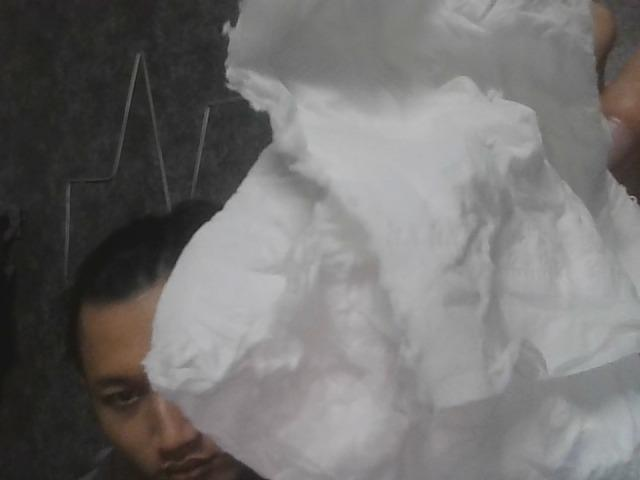
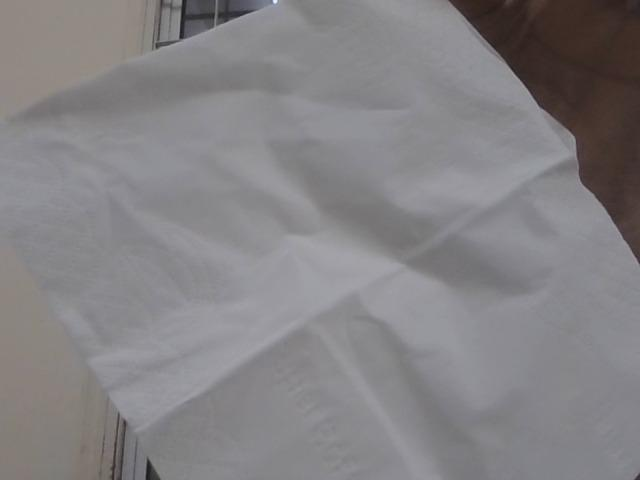
Final

diff --git a/test.py b/test.py
@@ -1,0 +1,100 @@
+import os
+import urllib.request
+from diagrams import Diagram, Cluster, Edge
+from diagrams.custom import Custom
+
+# --- 1. CẤU HÌNH USER-AGENT (Để tải icon không bị lỗi) ---
+opener = urllib.request.build_opener()
+opener.addheaders = [('User-Agent', 'Mozilla/5.0 (Windows NT 10.0; Win64; x64) AppleWebKit/537.36 (KHTML, like Gecko) Chrome/91.0.4472.124 Safari/537.36')]
+urllib.request.install_opener(opener)
+
+# --- 2. LINK ICON MINH HỌA ---
+# Sử dụng các icon hình học đơn giản để đại diện cho các khối lớp
+icons_url = {
+    "input": "https://cdn-icons-png.flaticon.com/512/3342/3342137.png", # Ảnh đầu vào
+    "conv": "https://cdn-icons-png.flaticon.com/512/8637/8637179.png", # Lớp Conv (Hình bánh răng/xử lý)
+    "depthwise": "https://cdn-icons-png.flaticon.com/512/17651/17651543.png", # Lớp Depthwise (Xử lý chi tiết)
+    "add": "https://cdn-icons-png.flaticon.com/512/3524/3524388.png", # Phép cộng (Residual)
+    "pool": "https://cdn-icons-png.flaticon.com/512/2085/2085217.png", # Pooling
+    "softmax": "https://cdn-icons-png.flaticon.com/512/4301/4301546.png" # Output Classification
+}
+
+# --- 3. HÀM TẢI ICON ---
+def get_icon(name, url):
+    filename = f"icon_{name}.png"
+    # Xóa file lỗi cũ nếu có
+    if os.path.exists(filename) and os.path.getsize(filename) < 1000:
+        try: os.remove(filename)
+        except: pass
+        
+    if not os.path.exists(filename):
+        try:
+            print(f"Đang tải icon: {name}...")
+            urllib.request.urlretrieve(url, filename)
+        except Exception as e:
+            print(f"Lỗi tải {name}: {e}")
+            return "icon_conv.png" # Fallback
+    return filename
+
+# --- 4. VẼ BIỂU ĐỒ ---
+graph_attr = {
+    "fontsize": "22",
+    "bgcolor": "#FFFFFF",
+    "splines": "ortho", # Đường nối vuông góc cho giống sơ đồ kỹ thuật
+    "pad": "0.5"
+}
+
+print("Đang tạo sơ đồ MobileNetV2...")
+
+# Tải tài nguyên
+paths = {}
+for key, url in icons_url.items():
+    paths[key] = get_icon(key, url)
+
+with Diagram("Kiến trúc MobileNetV2: Inverted Residual Block", 
+             show=True, 
+             filename="mobilenet_structure", 
+             outformat="png", 
+             graph_attr=graph_attr, 
+             direction="LR"): # Vẽ từ Trái sang Phải (Left to Right)
+
+    # 1. Input
+    input_img = Custom("Input Image\n(224x224x3)", paths["input"])
+
+    # 2. Stem (Lớp đầu tiên)
+    stem = Custom("Conv2D\n(32 filters)", paths["conv"])
+
+    # 3. THE CORE: INVERTED RESIDUAL BLOCK
+    # Đây là phần quan trọng nhất của MobileNetV2
+    with Cluster("Inverted Residual Block (Linear Bottleneck)", graph_attr={"bgcolor": "#E3F2FD", "style": "rounded"}):
+        
+        # Bước 1: Expansion (Mở rộng kênh)
+        expand = Custom("1x1 Conv\n(Expansion)", paths["conv"])
+        
+        # Bước 2: Depthwise Conv (Xử lý nhẹ)
+        depthwise = Custom("3x3 Depthwise\n(Lightweight)", paths["depthwise"])
+        
+        # Bước 3: Projection (Nén lại)
+        project = Custom("1x1 Conv\n(Projection)", paths["conv"])
+        
+        # Luồng đi thẳng
+        expand >> Edge(label="Expand (x6)") >> depthwise 
+        depthwise >> Edge(label="Relu6") >> project
+
+    # 4. Residual Connection (Đường tắt)
+    # Kết nối từ Stem vòng qua Block để cộng vào sau Projection
+    # Lưu ý: Trong diagram as code, vẽ đường cong ngược hơi khó, 
+    # nên ta minh họa logic luồng dữ liệu đi tiếp.
+    
+    # 5. Classifier Head
+    with Cluster("Classifier Head", graph_attr={"bgcolor": "#FFF3E0"}):
+        pool = Custom("Global Avg Pooling", paths["pool"])
+        dense = Custom("Dense Layer\n(Softmax)", paths["softmax"])
+
+    # KẾT NỐI TỔNG THỂ
+    input_img >> Edge(label="Features") >> stem >> expand
+    
+    # Mũi tên từ Block ra Classifier
+    project >> Edge(label="Linear Output") >> pool >> Edge(label="Predictions") >> dense
+
+print("Đã vẽ xong! Kiểm tra file: mobilenet_structure.png")

diff --git a/Linux.py b/Linux.py
@@ -1,0 +1,84 @@
+import matplotlib.pyplot as plt
+import matplotlib.patches as patches
+
+def draw_capabilities():
+    fig, ax = plt.subplots(figsize=(14, 7))
+
+    # --- PHẦN 1: MÔ HÌNH CŨ (TRADITIONAL ROOT) ---
+    # Vẽ vòng tròn quyền lực (Monolithic)
+    root_circle = patches.Circle((0.25, 0.6), 0.15, color='#d32f2f', alpha=0.9)
+    ax.add_patch(root_circle)
+    ax.text(0.25, 0.6, "FULL ROOT\n(UID 0)\nToàn quyền", ha='center', va='center', 
+            color='white', fontweight='bold', fontsize=12)
+
+    # Ứng dụng Web (Bị rủi ro)
+    app_box_old = dict(boxstyle="round,pad=0.3", fc="#ffebee", ec="#c62828")
+    ax.text(0.25, 0.25, "Web Service\n(Cần mở port 80)", ha='center', bbox=app_box_old, fontsize=10)
+
+    # Mũi tên trao quyền (Nguy hiểm)
+    ax.annotate("Cấp toàn bộ quyền", xy=(0.25, 0.32), xytext=(0.25, 0.45),
+                arrowprops=dict(arrowstyle="->", lw=3, color="#d32f2f"), ha='center')
+    
+    ax.text(0.25, 0.1, "RỦI RO CAO:\nNếu Web Service bị hack,\nkẻ tấn công có Full Root.", 
+            ha='center', color='#b71c1c', fontsize=9, style='italic')
+
+    # --- PHẦN 2: MÔ HÌNH CAPABILITIES (PHÂN MẢNH) ---
+    # Vẽ các mảnh ghép Capabilities (Grid)
+    start_x, start_y = 0.55, 0.75
+    gap = 0.02
+    width, height = 0.12, 0.08
+    
+    caps = [
+        ("CAP_CHOWN", "#90a4ae"), ("CAP_KILL", "#90a4ae"), ("CAP_SYS_TIME", "#90a4ae"),
+        ("CAP_NET_ADMIN", "#90a4ae"), ("CAP_SYS_BOOT", "#90a4ae"), ("CAP_AUDIT_WRITE", "#90a4ae"),
+        ("CAP_NET_BIND_SERVICE", "#2e7d32"), # Highlight cái này (Màu xanh)
+        ("CAP_SYS_MODULE", "#90a4ae"), ("CAP_DAC_OVERRIDE", "#90a4ae")
+    ]
+
+    # Vẽ lưới 3x3
+    coords = {} # Lưu tọa độ để vẽ mũi tên
+    for i, (name, color) in enumerate(caps):
+        row = i // 3
+        col = i % 3
+        x = start_x + col * (width + gap)
+        y = start_y - row * (height + gap)
+        
+        # Vẽ hộp Cap
+        rect = patches.FancyBboxPatch((x, y), width, height, boxstyle="round,pad=0.02", fc=color, ec="white")
+        ax.add_patch(rect)
+        ax.text(x + width/2, y + height/2, name, ha='center', va='center', fontsize=8, color='white', fontweight='bold')
+        
+        # Lưu tọa độ của CAP_NET_BIND_SERVICE
+        if name == "CAP_NET_BIND_SERVICE":
+            coords['target'] = (x + width/2, y)
+
+    ax.text(start_x + 1.5*width, start_y + 0.15, "LINUX CAPABILITIES\n(Quyền Root được chia nhỏ)", 
+            ha='center', fontsize=12, fontweight='bold', color='#1565c0')
+
+    # Ứng dụng Web (An toàn)
+    app_box_new = dict(boxstyle="round,pad=0.3", fc="#e8f5e9", ec="#2e7d32")
+    ax.text(start_x + 1.5*width, 0.25, "Web Service\n(Cần mở port 80)", ha='center', bbox=app_box_new, fontsize=10)
+
+    # Mũi tên cấp quyền (An toàn)
+    # Chỉ nối đúng vào CAP_NET_BIND_SERVICE
+    ax.annotate("Chỉ cấp quyền này", 
+                xy=coords['target'], xytext=(start_x + 1.5*width, 0.32),
+                arrowprops=dict(arrowstyle="->", lw=3, color="#2e7d32"), 
+                ha='center', fontsize=9, color="#2e7d32", fontweight='bold')
+
+    ax.text(start_x + 1.5*width, 0.1, "AN TOÀN (Least Privilege):\nNếu Web Service bị hack,\nkẻ tấn công KHÔNG thể làm gì khác.", 
+            ha='center', color='#1b5e20', fontsize=9, style='italic')
+
+    # --- KẺ ĐƯỜNG PHÂN CÁCH ---
+    ax.plot([0.45, 0.45], [0.05, 0.95], color="gray", linestyle="--")
+
+    # Trang trí
+    ax.set_xlim(0, 1)
+    ax.set_ylim(0, 1)
+    ax.axis('off')
+    plt.title("Hình 3.6: Phân mảnh đặc quyền Root thành các Capabilities", fontsize=16, fontweight='bold', y=0.95)
+
+    plt.tight_layout()
+    plt.show()
+
+draw_capabilities()
